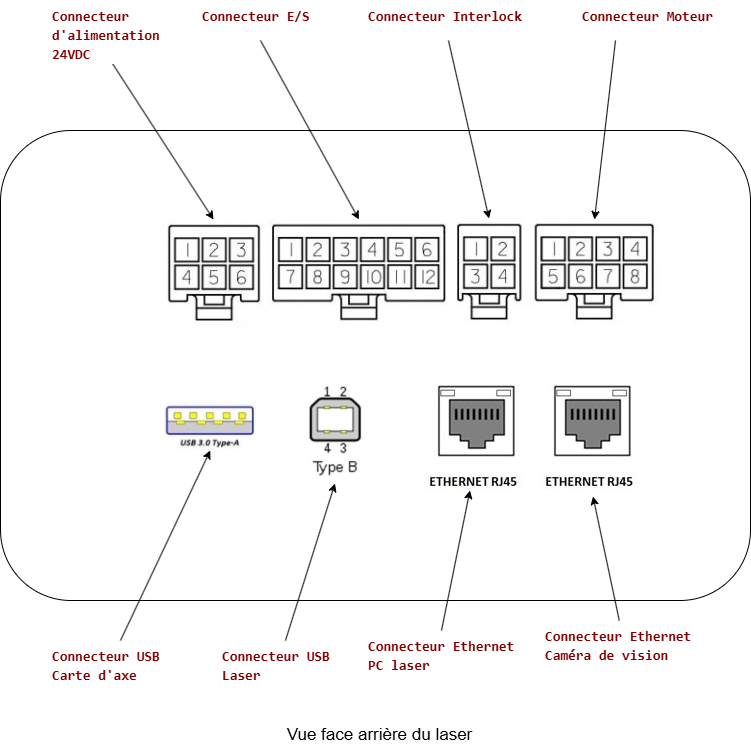
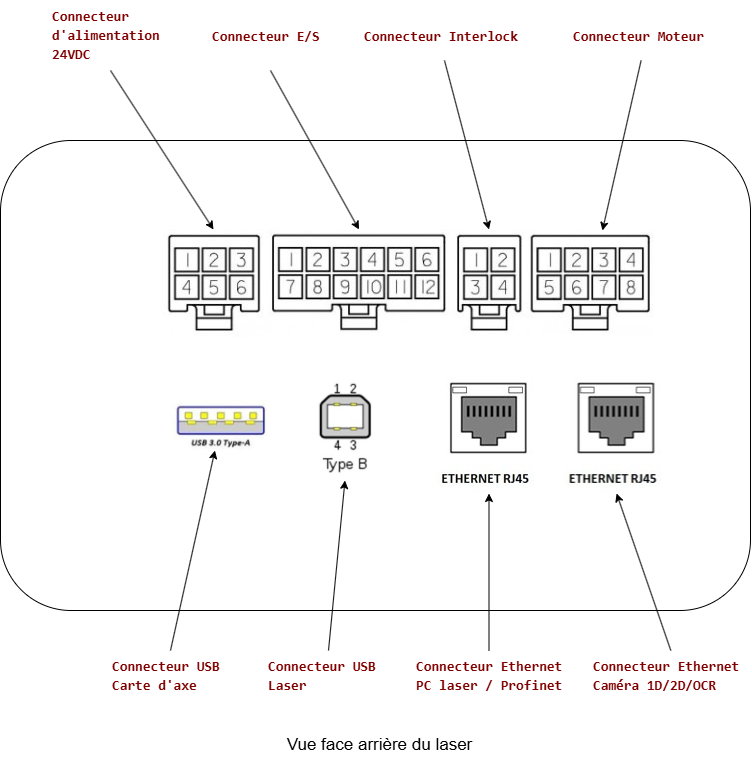
MAJ2403202601

diff --git a/docs/_shared/communication_profinet.md b/docs/_shared/communication_profinet.md
@@ -1,0 +1,109 @@
+# 5. Communication Profinet
+
+Ce chapitre détaille les procédures de communication et de pilotage du laser **IK-SERIES UV 5** via une interface réseau **Profinet**. Il s'adresse aux intégrateurs, régleurs et automaticiens souhaitant automatiser le processus de marquage laser en environnement de production.
+
+## 5.1. Introduction
+
+### Architecture et flux de travail
+Le contrôle du système de marquage repose sur une architecture hybride, combinant la préparation graphique sur PC et le pilotage automatisé par automate programmable (API/PLC). Le processus global se déroule en plusieurs grandes étapes :
+
+*   **Création et chargement des jobs** : Les modèles de marquage (ou jobs) sont initialement créés, configurés et sauvegardés à l'aide du logiciel **SamLight**. Ils sont ensuite transférés et stockés directement dans la mémoire interne du laser.
+*   **Interface de communication (Profinet vers RS232)** : Afin d'intégrer le laser dans un réseau industriel standard, les requêtes envoyées par l'automate transitent via le bus de terrain Profinet. Une passerelle matérielle convertit ensuite ces requêtes pour communiquer avec la carte de pilotage laser via son interface série RS232.
+*   **Pilotage par commandes ASCII** : Une fois les jobs en mémoire, l'automate prend le relais. Il contrôle le laser en envoyant des chaînes de caractères au format ASCII.
+
+### Capacités du pilotage automatisé
+L'envoi de ces commandes ASCII à travers l'interface Profinet/RS232 permet une grande flexibilité en production. Il est notamment possible de :
+
+*   **Gérer le cycle de marquage** : Sélectionner un job précis en mémoire et déclencher son exécution.
+*   **Modifier des données à la volée** : Mettre à jour des informations dynamiques en temps réel juste avant le marquage, telles que des numéros de série, des dates, des codes d'équipe ou des références de pièces, sans avoir besoin de repasser par le logiciel SamLight.
+
+---
+
+## 5.2. Création du modèle de marquage (Job) sous SamLight
+
+Avant de pouvoir piloter le laser depuis l'automate, vous devez créer le modèle de base du marquage, appelé un **Job**, à l'aide du logiciel SamLight. Ce fichier contiendra tous les éléments graphiques (lignes, logos) ainsi que les textes dynamiques qui seront mis à jour par l'automate. Ce job contient également les paramètres laser qui seront utilisés lors du marquage (puissance, fréquence, vitesse…).
+
+### 5.2.1 Créer un nouveau Job et ajouter un texte
+1.  Ouvrez le logiciel SamLight et créez un nouveau document vierge (`File > New Job`).
+2.  Utilisez l'outil de création de texte pour placer une nouvelle entité sur votre zone de travail.
+3.  Saisissez un texte par défaut (par exemple, "Texte_Test" ou "SN-0000"). Ce texte sert uniquement de repère visuel lors de la conception ; il sera de toute façon écrasé par la commande de l'automate lors de la production.
+
+### 5.2.2 Paramétrage indispensable pour le pilotage automate
+Pour que l'automate puisse "trouver" et modifier ce texte spécifique avec une commande ASCII (comme la commande `TX` vue précédemment), l'entité doit impérativement respecter deux conditions dans ses propriétés :
+
+*   **Lui donner un nom d'entité unique** : Sélectionnez votre texte dans SamLight. Dans le panneau des propriétés, cherchez l'onglet **Entity Info** (Informations de l'entité) et remplissez le champ **Name** (Nom). *Exemple : Nommez-le `NumSerie1`. C'est ce nom exact que l'automate ciblera dans sa ligne de commande (`TX NumSerie1`).*
+*   **Désactiver l'incrémentation automatique** : Si votre entité texte est configurée comme un numéro de série dynamique (type `ScSerialnumber2D`), le laser ne doit pas incrémenter le compteur de lui-même, puisque c'est l'automate (le "maître") qui lui dictera la valeur à chaque cycle. Allez dans l'onglet **Serial Number** et assurez-vous que la valeur **Inc. Value** (Valeur d'incrément) est strictement réglée sur **0**.
+
+### 5.2.3 Sauvegarde
+Une fois vos textes et logos en place, sauvegardez votre Job (par exemple sous le nom `Job_N1.sjf`). Ce fichier est maintenant prêt à être transféré dans la mémoire de la carte SCAPS.
+
+---
+
+## 5.3. Transfert du Job dans la mémoire du laser
+
+Une fois le Job configuré dans SamLight, il doit être transféré physiquement dans la mémoire interne (**Flash**) de la carte de pilotage laser. Cela permet de déconnecter le PC et de laisser l'automate piloter le laser de manière 100% autonome.
+
+### 5.3.1 Principe de l'Option Flash
+L'option Flash du laser agit comme un disque dur interne. Les Jobs y sont sauvegardés sous forme d'emplacements numérotés (**Index**). C'est ce numéro d'index que l'automate appellera plus tard avec la commande `JN`.
+
+### 5.3.2 Procédure de transfert depuis SamLight
+1.  **Ouvrir le Job** : Assurez-vous que votre fichier (ex : `Job_N1.sjf`) est bien ouvert et actif dans SamLight.
+2.  **Accéder au menu Flash** : Dans la barre de menus, ouvrez le menu `Extras` puis `Flash`.
+3.  **Sélectionner l'emplacement (Index)** : Sélectionnez l'emplacement souhaité, par exemple le Job n°6.
+    *   *Attention : Mémorisez bien ce numéro. Si vous l'enregistrez sur l'emplacement 6, l'automate devra obligatoirement envoyer la commande `JN 6<CR>` pour le charger.*
+4.  **Lancer le transfert** : Cliquez sur le bouton `Job editor to Flash`. Une barre de progression indiquera le transfert vers la carte SCAPS.
+![Scaps_flash](../assets/scaps_flash.png)
+5.  **Validation** : Une fois le transfert terminé, le Job est stocké de manière non-volatile.
+
+!!! info "Note de mise en service"
+    Lors des phases de test, si vous modifiez le design du marquage ou la position d'un texte dans SamLight, vous devez impérativement refaire cette manipulation d'enregistrement vers la Flash pour écraser l'ancien modèle.
+
+> [Consulter la notice complète de l'option Flash](https://download.scaps.com/downloads/Software/SAMLight/Manual/html/index.html?option_flash.htm)
+
+---
+
+## 5.4. Structure du protocole de communication
+
+Pour interagir avec le laser, l'automate doit formuler ses requêtes en respectant une syntaxe stricte. Toutes les commandes utilisent le protocole **FCI** (Flash Command Interface) et sont basées sur des caractères ASCII.
+
+### Format général d'une requête
+La forme générale pour envoyer des données au laser est la suivante :
+`<Commande> <Par1> <Par2> .. <ParN><CR>`
+
+*   **`<Commande>`** : Le mnémonique de la commande (ex: `JN`). Les commandes sont insensibles à la casse.
+*   **`<Par1>` à `<ParN>`** : Les paramètres de la commande séparés par un espace.
+*   **`<CR>`** : Le caractère de fin de ligne (Carriage Return, code ASCII 13 ou `0x0D` en hexadécimal). **Ce caractère est obligatoire.**
+
+### Gestion des réponses et temporisation
+Chaque commande envoyée génère une réponse de la part de la carte.
+
+*   **Règle d'or** : Il est strictement interdit d'envoyer une nouvelle commande tant que la réponse de la commande précédente n'a pas été entièrement reçue par l'automate.
+*   L'automate doit implémenter des boucles de temporisation (*time-out*). Sauf indication contraire, la carte répond en quelques millisecondes.
+*   Une réponse réussie commence par le code `0:`.
+
+---
+
+## 5.5. Exemples de commandes courantes
+
+Voici les commandes ASCII les plus couramment utilisées pour un cycle de production automatisé.
+
+### Sélectionner un Job (JN)
+Charge en mémoire active un job préalablement transféré sur la carte.
+*   **Syntaxe** : `JN <Numéro_Job><CR>`
+*   **Exemple d'envoi** : `JN 1<CR>` (Sélectionne le job numéro 1)
+*   **Réponse attendue** : `0:<CR>` (Succès)
+
+### Lancement du marquage (M)
+Démarre le process de marquage du job sélectionné.
+*   **Syntaxe** : `M <1><CR>`
+*   **Exemple d'envoi** : `M 1<CR>` (Démarre le marquage)
+*   **Réponse attendue** : `0:<CR>` (Succès)
+*   **Note** : `M 0<CR>` permet d'arrêter le marquage.
+
+### Modification d'un numéro de série (TX)
+Modifie le contenu de l'entité texte sélectionnée.
+*   **Syntaxe** : `TX <nom entité> <contenu><CR>`
+*   **Exemple d'envoi** : `TX NumSerie1 SN-2026-1234<CR>`
+*   **Réponse attendue** : `0:<CR>` (Le texte est mis à jour en mémoire)
+
+> [Consulter la liste complète des commandes FCI](https://download.scaps.com/downloads/Software/Programming/Flash_Control_Interface/Manual/html/index.html?command_list.htm)

diff --git a/docs/IK-Series/ik-series-uv5.md b/docs/IK-Series/ik-series-uv5.md
@@ -47,3 +47,6 @@ Le dispositif laser IK-SERIES-UV5 est un laser DPSS UV (longueur d'onde 355nm), 
 
 --8<-- "docs/_shared/connecteurs.md"
 <br>
+
+--8<-- "docs/_shared/communication_profinet.md"
+<br>